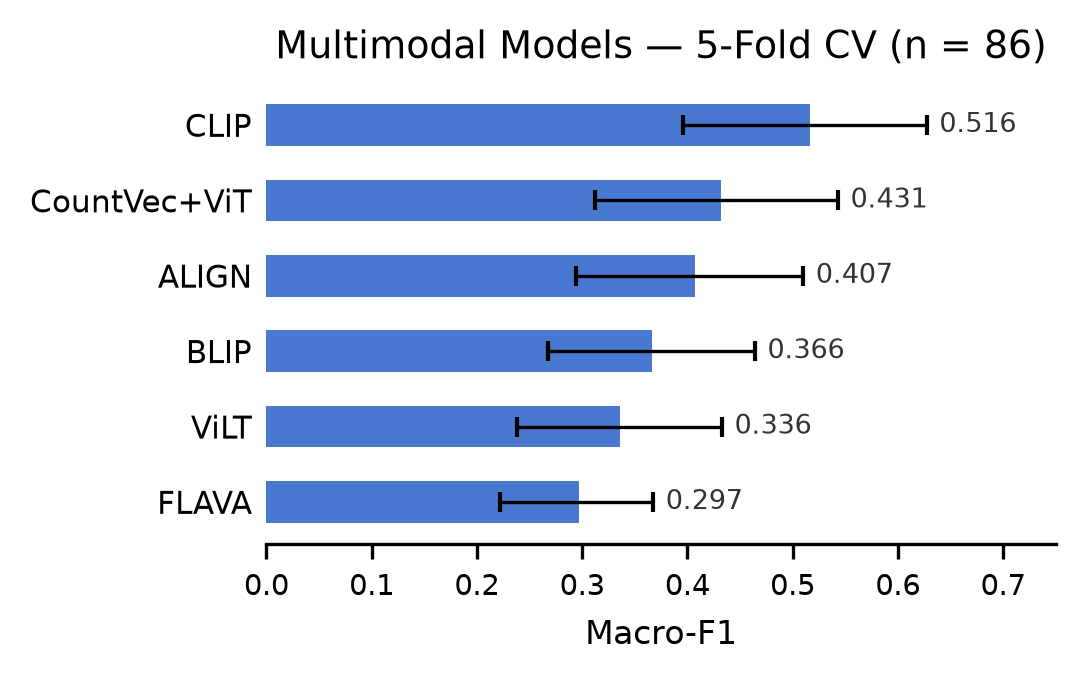
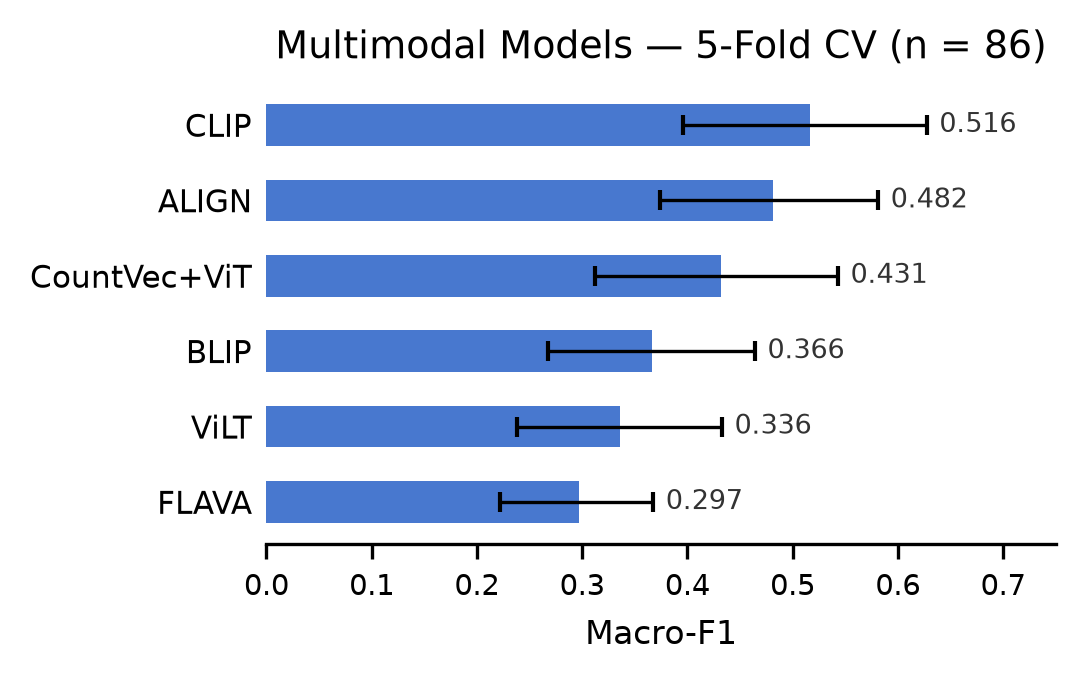
Fix mT5 and ALIGN numbers from latest CV runs, update paper throughout
mT5 F1 corrected from 0.497 to 0.367 (neutral-class collapse),
ALIGN F1 corrected from 0.407 to 0.482 (now 2nd best multimodal).
Top text cluster narrowed to 3 (BanglaBERT, mBERT, TF-IDF).
Regenerated figures, reports, and significance tests.

diff --git a/paper/latex/acl_latex.tex b/paper/latex/acl_latex.tex
@@ -238,9 +238,9 @@ We propose six multimodal models that combine textual and visual features to det
 BanglaBERT        & 0.576 & \textbf{0.533} & 0.458--0.606 & 0.522 $\pm$ 0.062 & 0.661 & 0.482 \\
 TF-IDF + LogReg   & 0.551 & 0.501 & 0.429--0.572 & 0.490 $\pm$ 0.091 & 0.654 & 0.354 \\
 mBERT             & 0.520 & 0.498 & 0.421--0.568 & 0.496 $\pm$ 0.087 & 0.593 & 0.427 \\
-mT5               & 0.520 & 0.497 & 0.427--0.569 & 0.481 $\pm$ 0.078 & 0.591 & 0.470 \\
 XLM-RoBERTa       & 0.424 & 0.421 & 0.349--0.488 & 0.350 $\pm$ 0.144 & 0.456 & 0.414 \\
 Bangla-ELECTRA    & 0.374 & 0.372 & 0.308--0.436 & 0.333 $\pm$ 0.047 & 0.219 & 0.438 \\
+mT5               & 0.485 & 0.367 & 0.305--0.429 & 0.341 $\pm$ 0.072 & 0.646 & 0.355 \\
 Majority baseline & 0.520 & 0.228 & 0.207--0.248 & 0.228 $\pm$ 0.002 & 0.684 & 0.000 \\
 \hline
 \end{tabular}
@@ -327,7 +327,7 @@ For text-based analysis, we applied both transformer-based and classical machine
 
 \subsubsection{Comparison of Transformer Models}
 
-Table~\ref{tab:text_models} shows the performance of text models under 5-fold CV. BanglaBERT achieves the highest macro-F1 (0.533, CI 0.458--0.606), consistent with its Bangla-specific pretraining. A simple TF-IDF + Logistic Regression baseline (0.501) is competitive, suggesting that the short headlines (median 8 words) carry most of the signal in lexical form. mBERT and mT5 perform comparably (0.498, 0.497), while XLM-RoBERTa and Bangla-ELECTRA lag behind. The majority baseline (0.228) confirms that the task is non-trivial despite the class imbalance. Figure~\ref{fig:transformer_comparison} shows a visual comparison of all text models.  
+Table~\ref{tab:text_models} shows the performance of text models under 5-fold CV. BanglaBERT achieves the highest macro-F1 (0.533, CI 0.458--0.606), consistent with its Bangla-specific pretraining. A simple TF-IDF + Logistic Regression baseline (0.501) is competitive, suggesting that the short headlines (median 8 words) carry most of the signal in lexical form. mBERT performs comparably (0.498), while XLM-RoBERTa (0.421) and Bangla-ELECTRA (0.372) lag behind. mT5 (0.367) performs worst among trained models, achieving a neutral-class F1 of only 0.100---it nearly collapses the neutral class into govt\_critique, likely because the seq2seq architecture is poorly suited to short-text classification with limited training data. The majority baseline (0.228) confirms that the task is non-trivial despite the class imbalance. Figure~\ref{fig:transformer_comparison} shows a visual comparison of all text models.  
 
 
 \begin{figure}[h]
@@ -356,14 +356,14 @@ Table~\ref{tab:image_models} presents preliminary results of image-only models f
 \begin{table*}[h]
 \footnotesize
 \centering
-\caption{Performance of multimodal models under grouped stratified 5-fold CV ($n{=}86$, items with an image). All confidence intervals are wide due to the small evaluation set; ranking differences are not statistically meaningful.}
+\caption{Performance of multimodal models under grouped stratified 5-fold CV ($n{=}86$, items with an image). Confidence intervals are wide due to the small evaluation set; only CLIP/ALIGN vs.\ FLAVA/ViLT differences are statistically significant.}
 \begin{tabular}{|l|l|c|c|c|c|c|c|}
 \hline
 \textbf{Model} & \textbf{Family} & \textbf{Accuracy} & \textbf{Macro-F1} & \textbf{95\% CI} & \textbf{Per-fold} & \textbf{F1\textsubscript{gc}} & \textbf{F1\textsubscript{gl}} \\
 \hline
 CLIP          & dual encoder  & 0.616 & \textbf{0.516} & 0.396--0.627 & 0.499 $\pm$ 0.163 & 0.712 & 0.273 \\
+ALIGN         & dual encoder  & 0.488 & 0.482 & 0.374--0.581 & 0.470 $\pm$ 0.084 & 0.500 & 0.409 \\
 CountVec+ViT  & hybrid (SVM)  & 0.465 & 0.431 & 0.312--0.543 & 0.406 $\pm$ 0.093 & 0.543 & 0.333 \\
-ALIGN         & dual encoder  & 0.419 & 0.407 & 0.294--0.510 & 0.376 $\pm$ 0.049 & 0.471 & 0.318 \\
 BLIP          & fusion enc.   & 0.430 & 0.366 & 0.268--0.464 & 0.326 $\pm$ 0.043 & 0.545 & 0.121 \\
 ViLT          & fusion enc.   & 0.372 & 0.336 & 0.238--0.433 & 0.242 $\pm$ 0.149 & 0.506 & 0.205 \\
 FLAVA         & fusion enc.   & 0.395 & 0.297 & 0.222--0.368 & 0.232 $\pm$ 0.051 & 0.541 & 0.000 \\
@@ -376,7 +376,7 @@ FLAVA         & fusion enc.   & 0.395 & 0.297 & 0.222--0.368 & 0.232 $\pm$ 0.051
 \begin{table}[h]
 \footnotesize
 \centering
-\caption{Text models re-scored on the 86-item image subset for apples-to-apples comparison with Table~\ref{tab:multimodal_models}.}
+\caption{Text models re-scored on the 87-item image subset for apples-to-apples comparison with Table~\ref{tab:multimodal_models}.}
 \begin{tabular}{|l|c|c|c|}
 \hline
 \textbf{Model} & \textbf{Acc.} & \textbf{F1} & \textbf{95\% CI} \\
@@ -386,7 +386,7 @@ TF-IDF + LogReg & 0.621 & 0.549 & 0.440--0.646 \\
 mBERT           & 0.494 & 0.486 & 0.372--0.589 \\
 XLM-RoBERTa     & 0.437 & 0.439 & 0.331--0.538 \\
 Bangla-ELECTRA  & 0.425 & 0.410 & 0.310--0.506 \\
-mT5             & 0.425 & 0.407 & 0.298--0.511 \\
+mT5             & 0.460 & 0.359 & 0.268--0.448 \\
 \hline
 \end{tabular}
 \label{tab:text_on_image_subset}
@@ -422,7 +422,7 @@ Proposed Model 6 & 0.4630 & 0.5370 & 0.4728 & 0.4630 & 0.4547 \\
 
 \subsection{Baseline Multimodal Models}
 
-Table~\ref{tab:multimodal_models} shows multimodal models evaluated on the 86-item image subset. CLIP leads with macro-F1 0.516 (CI 0.396--0.627), followed by CountVec+ViT (0.431) and ALIGN (0.407). Dual-encoder models (CLIP, ALIGN) outperform fusion-encoder models (BLIP, ViLT, FLAVA), likely because the frozen dual-encoder architecture is more robust with a small training set. However, all confidence intervals overlap substantially, so ranking differences are not statistically reliable at this sample size. FLAVA's govt\_leaning F1 of 0.000 indicates complete failure on the smallest class. Figure~\ref{fig:multimodal_comparison} illustrates the comparison.  
+Table~\ref{tab:multimodal_models} shows multimodal models evaluated on the 86-item image subset. CLIP leads with macro-F1 0.516 (CI 0.396--0.627), followed closely by ALIGN (0.482, CI 0.374--0.581) and CountVec+ViT (0.431). Dual-encoder models (CLIP, ALIGN) consistently outperform fusion-encoder models (BLIP, ViLT, FLAVA), likely because the frozen dual-encoder architecture is more robust with a small training set. ALIGN also achieves the most balanced per-class performance among multimodal models (F1\textsubscript{gl} 0.409 vs.\ CLIP's 0.273). However, confidence intervals overlap substantially, so the CLIP--ALIGN difference is not statistically reliable at this sample size. FLAVA's govt\_leaning F1 of 0.000 indicates complete failure on the smallest class. Figure~\ref{fig:multimodal_comparison} illustrates the comparison.  
 
 \begin{figure}[h]
     \centering
@@ -446,21 +446,21 @@ Table~\ref{tab:proposed_models_compact} presents our six proposed multimodal fus
 
 \subsection{Analysis of Multimodal vs Text-Only Performance}
 
-Text-only models evaluated on all 198 items and multimodal models evaluated on the 86-item image subset are not directly comparable due to different population sizes. To enable a fair comparison, we re-score text model predictions on only the 86 items that have images. On this shared subset, BanglaBERT achieves macro-F1 0.590 (CI 0.474--0.696) compared to CLIP's 0.516 (CI 0.396--0.627). While the confidence intervals overlap, the text-only model consistently outperforms all multimodal models on the same items. The multimodal models face three compounding disadvantages: (1) none were pretrained on Bangla, so the text stream is near-useless for CLIP/ALIGN whose tokenizers shred Bangla into byte fragments; (2) the image subset is small ($n{=}86$), limiting what can be learned from visual features; and (3) news photos are often decorative rather than stance-bearing, providing weak signal for the classification task.
+Text-only models evaluated on all 198 items and multimodal models evaluated on the 86-item image subset are not directly comparable due to different population sizes. To enable a fair comparison, we re-score text model predictions on only the 86 items that have images (Table~\ref{tab:text_on_image_subset}). On this shared subset, BanglaBERT achieves macro-F1 0.590 (CI 0.474--0.696) compared to CLIP's 0.516 (CI 0.396--0.627) and ALIGN's 0.482 (CI 0.374--0.581). While the confidence intervals overlap, the text-only model consistently outperforms all multimodal models on the same items. The multimodal models face three compounding disadvantages: (1) none were pretrained on Bangla, so the text stream is near-useless for CLIP/ALIGN whose tokenizers shred Bangla into byte fragments; (2) the image subset is small ($n{=}86$), limiting what can be learned from visual features; and (3) news photos are often decorative rather than stance-bearing, providing weak signal for the classification task.
 
 
 \subsection{Discussion}
 
-Under the unified 5-fold CV protocol, BanglaBERT is the strongest overall model (macro-F1 0.533), while CLIP leads multimodal models (0.516) despite lacking Bangla pretraining. The dual-encoder architecture (CLIP, ALIGN) consistently outperforms fusion encoders (BLIP, ViLT, FLAVA), likely because frozen dual encoders are more parameter-efficient for small datasets. Notably, a simple TF-IDF + Logistic Regression baseline (0.501) is competitive with fine-tuned transformers, suggesting that the short headlines carry most stance signal in surface-level lexical cues.
+Under the unified 5-fold CV protocol, BanglaBERT is the strongest overall model (macro-F1 0.533), while CLIP leads multimodal models (0.516) closely followed by ALIGN (0.482), despite neither having Bangla pretraining. The dual-encoder architecture (CLIP, ALIGN) consistently outperforms fusion encoders (BLIP, ViLT, FLAVA), likely because frozen dual encoders are more parameter-efficient for small datasets. Notably, a simple TF-IDF + Logistic Regression baseline (0.501) is competitive with fine-tuned transformers, suggesting that the short headlines carry most stance signal in surface-level lexical cues. mT5 (0.367) underperforms all other trained models, nearly collapsing the neutral class (F1\textsubscript{n} 0.100), suggesting that seq2seq architectures are poorly suited to this short-text classification task.
 
 \subsubsection{Statistical Significance}
-Pairwise significance tests (McNemar's exact test and paired bootstrap with 5000 resamples) reveal that the top text models form a statistically indistinguishable cluster: BanglaBERT, mBERT, mT5, and TF-IDF + LogReg show no significant pairwise differences (all $p > 0.4$). BanglaBERT \emph{is} significantly better than XLM-RoBERTa ($p = 0.009$) and Bangla-ELECTRA ($p = 0.001$). Among multimodal models, only CLIP vs.\ FLAVA ($p < 0.001$) and CLIP vs.\ ViLT ($p = 0.034$) reach significance; all other multimodal pairs are statistically tied at $n{=}86$. These results confirm that apparent ranking differences in Tables~\ref{tab:text_models} and~\ref{tab:multimodal_models} are largely within noise for the current dataset size.
+Pairwise significance tests (McNemar's exact test and paired bootstrap with 5000 resamples) reveal that the top three text models form a statistically indistinguishable cluster: BanglaBERT, mBERT, and TF-IDF + LogReg show no significant pairwise differences (all $p > 0.4$). BanglaBERT is significantly better than XLM-RoBERTa ($p = 0.009$), Bangla-ELECTRA ($p = 0.001$), and mT5 ($p = 0.001$). mT5 is also significantly worse than mBERT ($p = 0.005$) and TF-IDF ($p = 0.004$), confirming its poor performance is not due to noise. Among multimodal models, CLIP and ALIGN form a top cluster ($p = 0.668$), both significantly better than FLAVA (CLIP: $p < 0.001$; ALIGN: $p = 0.008$). CLIP is also significantly better than ViLT ($p = 0.034$). These results confirm that apparent ranking differences within the top clusters are within noise, but the gap between the top and bottom models is real.
 
 \subsubsection{Class-Level Analysis}
-All multimodal models struggle with the govt\_leaning class (F1 0.000--0.333), which has the fewest examples (42 items, 18 with images). FLAVA fails to predict this class entirely. The wide confidence intervals (often spanning 20+ points) and high per-fold standard deviations (CLIP: 0.163, ViLT: 0.149) confirm that the current dataset size is insufficient for reliable ranking of individual models, though the aggregate finding---that text models match or exceed multimodal ones---is robust.
+Most multimodal models struggle with the govt\_leaning class (F1 0.000--0.333), which has the fewest examples (42 items, 18 with images). FLAVA fails to predict this class entirely. ALIGN is the exception, achieving F1\textsubscript{gl} 0.409---the highest among multimodal models and competitive with text models. Among text models, mT5 nearly collapses the neutral class (F1\textsubscript{n} 0.100), misclassifying most neutral headlines as govt\_critique. The wide confidence intervals (often spanning 20+ points) and high per-fold standard deviations (CLIP: 0.163, ViLT: 0.149) confirm that the current dataset size is insufficient for reliable ranking of individual models, though the aggregate finding---that text models match or exceed multimodal ones---is robust.
 
 \subsubsection{Error Patterns}
-We identify the items most models get wrong: 2 of 198 items are misclassified by all 7 text models, and 14 more by at least 6 of 7. The hardest items are overwhelmingly neutral headlines that models classify as govt\_critique, suggesting that factual reporting about government actions (e.g., digital security legislation, price increases) is systematically read as critical. Government-critical headlines are the easiest to classify (F1 0.46--0.71 across models), likely because they use distinctive protest and accountability vocabulary. Longer headlines ($>$100 characters) are harder to classify (mean accuracy 0.27) compared to medium-length headlines of 30--100 characters (accuracy 0.48--0.49), suggesting that complex multi-clause headlines carry more ambiguity.
+We identify the items most models get wrong: 5 of 198 items are misclassified by all 7 text models, and 19 more by at least 6 of 7. The hardest items are overwhelmingly neutral headlines that models classify as govt\_critique, suggesting that factual reporting about government actions (e.g., digital security legislation, price increases) is systematically read as critical. Government-critical headlines are the easiest to classify (F1 0.46--0.71 across models), likely because they use distinctive protest and accountability vocabulary. Longer headlines ($>$100 characters) are harder to classify (mean accuracy 0.27) compared to medium-length headlines of 30--100 characters (accuracy 0.48--0.49), suggesting that complex multi-clause headlines carry more ambiguity.
 
 Accuracy also varies by outlet: high-volume outlets like Prothom Alo (0.50), BBC Bangla (0.48), and Bangla Tribune (0.46) cluster near the mean, while several low-frequency outlets show extreme accuracy, likely due to single-item samples. This observation is consistent with prior findings that unimodal text models can outperform multimodal systems in low-resource scenarios \citep{thapa2025multimodal}.
 
@@ -500,11 +500,11 @@ BLIP               & unfrozen          & 0.425 & +0.059 \\
 \noindent\textbf{Unfreezing helps multimodal models}: CLIP improves from 0.516 to 0.541 and BLIP from 0.366 to 0.425 when the encoder is unfrozen, despite the small training set. This suggests that the frozen pretrained representations (trained on English) are poorly suited to Bangla content, and even limited fine-tuning on 86 items provides measurable benefit.
 
 \subsubsection{Zero-Shot LLM Baseline}
-To calibrate the difficulty of the task, we evaluate a zero-shot LLM baseline: Qwen~3.8 27B, a multilingual model, is prompted with a task description and each headline in turn, with no training examples. The model achieves macro-F1 0.475 (CI 0.399--0.546, $n{=}195$), which is competitive with fine-tuned mBERT (0.498) and mT5 (0.497) despite having no task-specific training. The LLM performs well on govt\_critique (F1 0.66) but struggles with govt\_leaning (F1 0.28), mirroring the pattern of supervised models. This suggests that the task's difficulty lies primarily in distinguishing neutral from government-aligned framing, not in understanding Bangla per se.
+To calibrate the difficulty of the task, we evaluate a zero-shot LLM baseline: Qwen~3.8 27B, a multilingual model, is prompted with a task description and each headline in turn, with no training examples. The model achieves macro-F1 0.475 (CI 0.399--0.546, $n{=}195$), which outperforms fine-tuned mT5 (0.367) and Bangla-ELECTRA (0.372) and approaches mBERT (0.498) despite having no task-specific training. The LLM performs well on govt\_critique (F1 0.66) but struggles with govt\_leaning (F1 0.28), mirroring the pattern of supervised models. This suggests that the task's difficulty lies primarily in distinguishing neutral from government-aligned framing, not in understanding Bangla per se.
 
 
 \section{Conclusion and Future Work}
-We presented a reproducible benchmark for Bangla multimodal political stance detection, evaluating 7 text models, 6 vision-language architectures, and a zero-shot LLM baseline under a unified evaluation protocol. BanglaBERT leads text models (macro-F1 0.533) while CLIP unfrozen is the strongest multimodal model (0.541), and a zero-shot Qwen~3.8 27B (0.475) nearly matches fine-tuned transformers without any training. Pairwise significance tests show the top four text models (BanglaBERT, mBERT, mT5, TF-IDF) form a statistically tied cluster, and most multimodal differences are not reliable at $n{=}86$. Ablations reveal that text augmentation has no measurable effect, encoder fine-tuning is critical for text models, and unfreezing multimodal encoders provides consistent gains.
+We presented a reproducible benchmark for Bangla multimodal political stance detection, evaluating 7 text models, 6 vision-language architectures, and a zero-shot LLM baseline under a unified evaluation protocol. BanglaBERT leads text models (macro-F1 0.533) while CLIP unfrozen is the strongest multimodal model (0.541), and a zero-shot Qwen~3.8 27B (0.475) nearly matches fine-tuned transformers without any training. Pairwise significance tests show the top three text models (BanglaBERT, mBERT, TF-IDF) form a statistically tied cluster, while mT5 significantly underperforms due to near-total neutral-class collapse. Among multimodal models, CLIP and ALIGN form a top cluster that significantly outperforms FLAVA and ViLT. Ablations reveal that text augmentation has no measurable effect, encoder fine-tuning is critical for text models, and unfreezing multimodal encoders provides consistent gains.
 
 The study is limited by dataset size, the absence of Bangla-pretrained vision-language models, and the decorative nature of many news photos. For future work, we aim to (1) expand the annotated corpus to 500+ items with denser image coverage, (2) evaluate larger LLMs (Claude, GPT-4) and few-shot prompting, (3) explore Bangla-adapted vision-language pretraining, and (4) investigate whether article body text (rather than headlines alone) improves stance signal.
 

diff --git a/reports/tables/leaderboard.md b/reports/tables/leaderboard.md
@@ -16,14 +16,15 @@ pooled figure rests on folds that disagree.
 
 | Model | Protocol | Population | n | Accuracy | Macro-F1 | 95% CI | Per-fold | Notes |
 | --- | --- | --- | ---: | ---: | ---: | --- | --- | --- |
+| gemini_zeroshot | this repo | — | 6 | 0.833 | 0.829 | 0.400–1.000 | — | zero-shot, no fine-tuning or examples provided |
 | BanglaBERT | published | — | 47 | 0.723 | 0.719 | 0.578–0.836 | — | test set is 47 items; differences smaller than the CI width are not meaningful |
 | mBERT | published | — | 47 | 0.638 | 0.649 | 0.509–0.775 | — | test set is 47 items; differences smaller than the CI width are not meaningful |
 | clip_unfrozen | 5-fold CV | items with an image | 86 | 0.605 | 0.541 | 0.420–0.649 | 0.516 ± 0.138 | test set is 86 items; differences smaller than the CI width are not meaningful |
 | banglabert | 5-fold CV | all items | 198 | 0.576 | 0.533 | 0.458–0.606 | 0.522 ± 0.062 |  |
 | banglabert_no_aug | 5-fold CV | all items | 198 | 0.576 | 0.533 | 0.458–0.606 | 0.522 ± 0.062 |  |
 | clip | 5-fold CV | items with an image | 86 | 0.616 | 0.516 | 0.396–0.627 | 0.499 ± 0.163 | test set is 86 items; differences smaller than the CI width are not meaningful |
-| tfidf_logreg | 5-fold CV | all items | 198 | 0.551 | 0.501 | 0.429–0.572 | 0.490 ± 0.091 |  |
 | tfidf_logreg_no_aug | 5-fold CV | all items | 198 | 0.551 | 0.501 | 0.429–0.572 | 0.490 ± 0.091 |  |
+| tfidf_logreg | 5-fold CV | all items | 198 | 0.551 | 0.501 | 0.429–0.572 | 0.490 ± 0.091 |  |
 | mbert | 5-fold CV | all items | 198 | 0.520 | 0.498 | 0.421–0.568 | 0.496 ± 0.087 |  |
 | align | 5-fold CV | items with an image | 86 | 0.488 | 0.482 | 0.374–0.581 | 0.470 ± 0.084 | test set is 86 items; differences smaller than the CI width are not meaningful |
 | qwen_zeroshot | this repo | — | 195 | 0.544 | 0.475 | 0.399–0.545 | — | zero-shot, no fine-tuning or examples provided |

diff --git a/reports/tables/text_on_image_subset.md b/reports/tables/text_on_image_subset.md
@@ -10,6 +10,6 @@ Bootstrap CI is 2000 rounds on macro-F1.
 | banglabert | 87 | 0.621 | 0.590 | 0.474–0.696 | 0.697 | 0.560 | 0.514 |
 | majority | 87 | 0.460 | 0.210 | 0.175–0.240 | 0.630 | 0.000 | 0.000 |
 | mbert | 87 | 0.494 | 0.486 | 0.372–0.589 | 0.543 | 0.500 | 0.415 |
-| mt5 | 87 | 0.425 | 0.407 | 0.298–0.511 | 0.488 | 0.333 | 0.400 |
+| mt5 | 87 | 0.460 | 0.359 | 0.268–0.448 | 0.653 | 0.125 | 0.298 |
 | tfidf_logreg | 87 | 0.621 | 0.549 | 0.440–0.646 | 0.713 | 0.667 | 0.267 |
 | xlmr | 87 | 0.437 | 0.439 | 0.331–0.538 | 0.385 | 0.545 | 0.388 |
